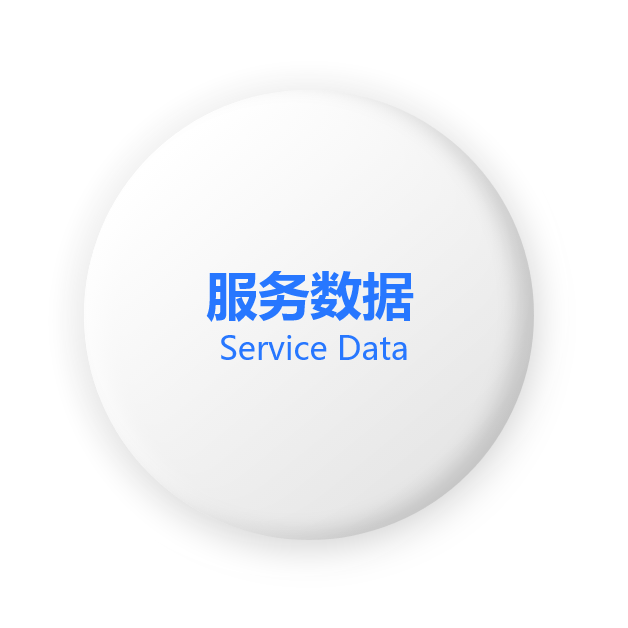
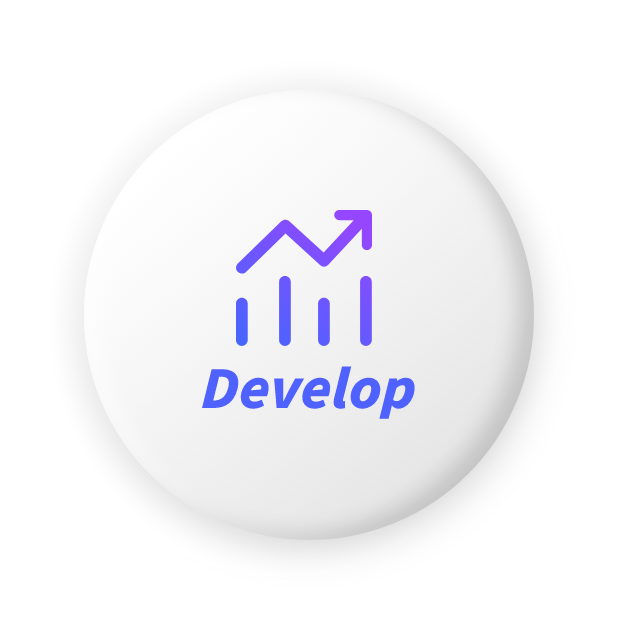
feat: add

Changed region(s): [[0.3025, 0.3328, 0.6656, 0.6656]]

diff --git a/src/views/Partner.vue b/src/views/Partner.vue
@@ -12,6 +12,7 @@
                 <div class="fuwu-box">
                   <div class="box">
                     <img class="yuan animate__animated animate__zoomIn animate__delay-1-1" src="@/assets/fuwu-yuan.png" alt="" />
+                    <img class="yuan1 animate__animated animate__zoomIn animate__delay-1-1" src="@/assets/fuwu-yuan1.png" alt="" />
                     <img class="fuwu fuwu1 animate__animated animate__fadeInDown animate__delay-1-4" src="@/assets/fuwu1.png" alt="" srcset="" />
                     <img class="fuwu fuwu2 animate__animated animate__fadeInDown animate__delay-1-5" src="@/assets/fuwu2.png" alt="" srcset="" />
                     <img class="fuwu fuwu3 animate__animated animate__fadeInDown animate__delay-1-6" src="@/assets/fuwu3.png" alt="" srcset="" />
@@ -132,6 +133,13 @@ const onSlideChange = () => {
         .yuan {
           width: 100%;
           height: 100%;
+        }
+        .yuan1 {
+          position: absolute;
+          width: 100%;
+          height: 100%;
+          left: 0;
+          top: 0;
         }
         .fuwu {
           position: absolute;

diff --git a/src/views/CallUs.vue b/src/views/CallUs.vue
@@ -4,8 +4,8 @@
       <div class="more-info">
         <img class="title animate__animated animate__fadeInDown" src="@/assets/call-title.png" alt="" />
         <div class="text-box animate__animated animate__fadeInDown animate__delay-1">
-          <p class="tell">联系电话：023 6084 9878</p>
-          <p class="address">地址：重庆市 渝北区 黄山大道中段7号（中国进出口银行8楼）</p>
+          <p class="tell">联系电话：023-6084 9878</p>
+          <p class="address">地址：中国进出口银行(重庆分行)8楼</p>
           <button class="btn" @click="toggle" v-if="width > 1200"></button>
         </div>
         <b-map v-if="width < 1200" />

diff --git a/src/components/Footer.vue b/src/components/Footer.vue
@@ -13,8 +13,8 @@
           </ul>
         </div>
         <div class="bottom">
-          <span>电话：023 6084 9878 </span>
-          <span>地址：重庆市 渝北区 黄山大道中段7号（中国进出口银行8楼）</span>
+          <span>电话：023-6084 9878 </span>
+          <span>地址：中国进出口银行(重庆分行)8楼</span>
         </div>
       </div>
     </div>

diff --git a/src/components/Header.vue b/src/components/Header.vue
@@ -179,7 +179,7 @@ watch(active, (val) => {
   }
   .main {
     margin: 0 auto;
-    width: 1000px;
+    width: 1100px;
     display: flex;
     justify-content: space-between;
     align-items: center;
